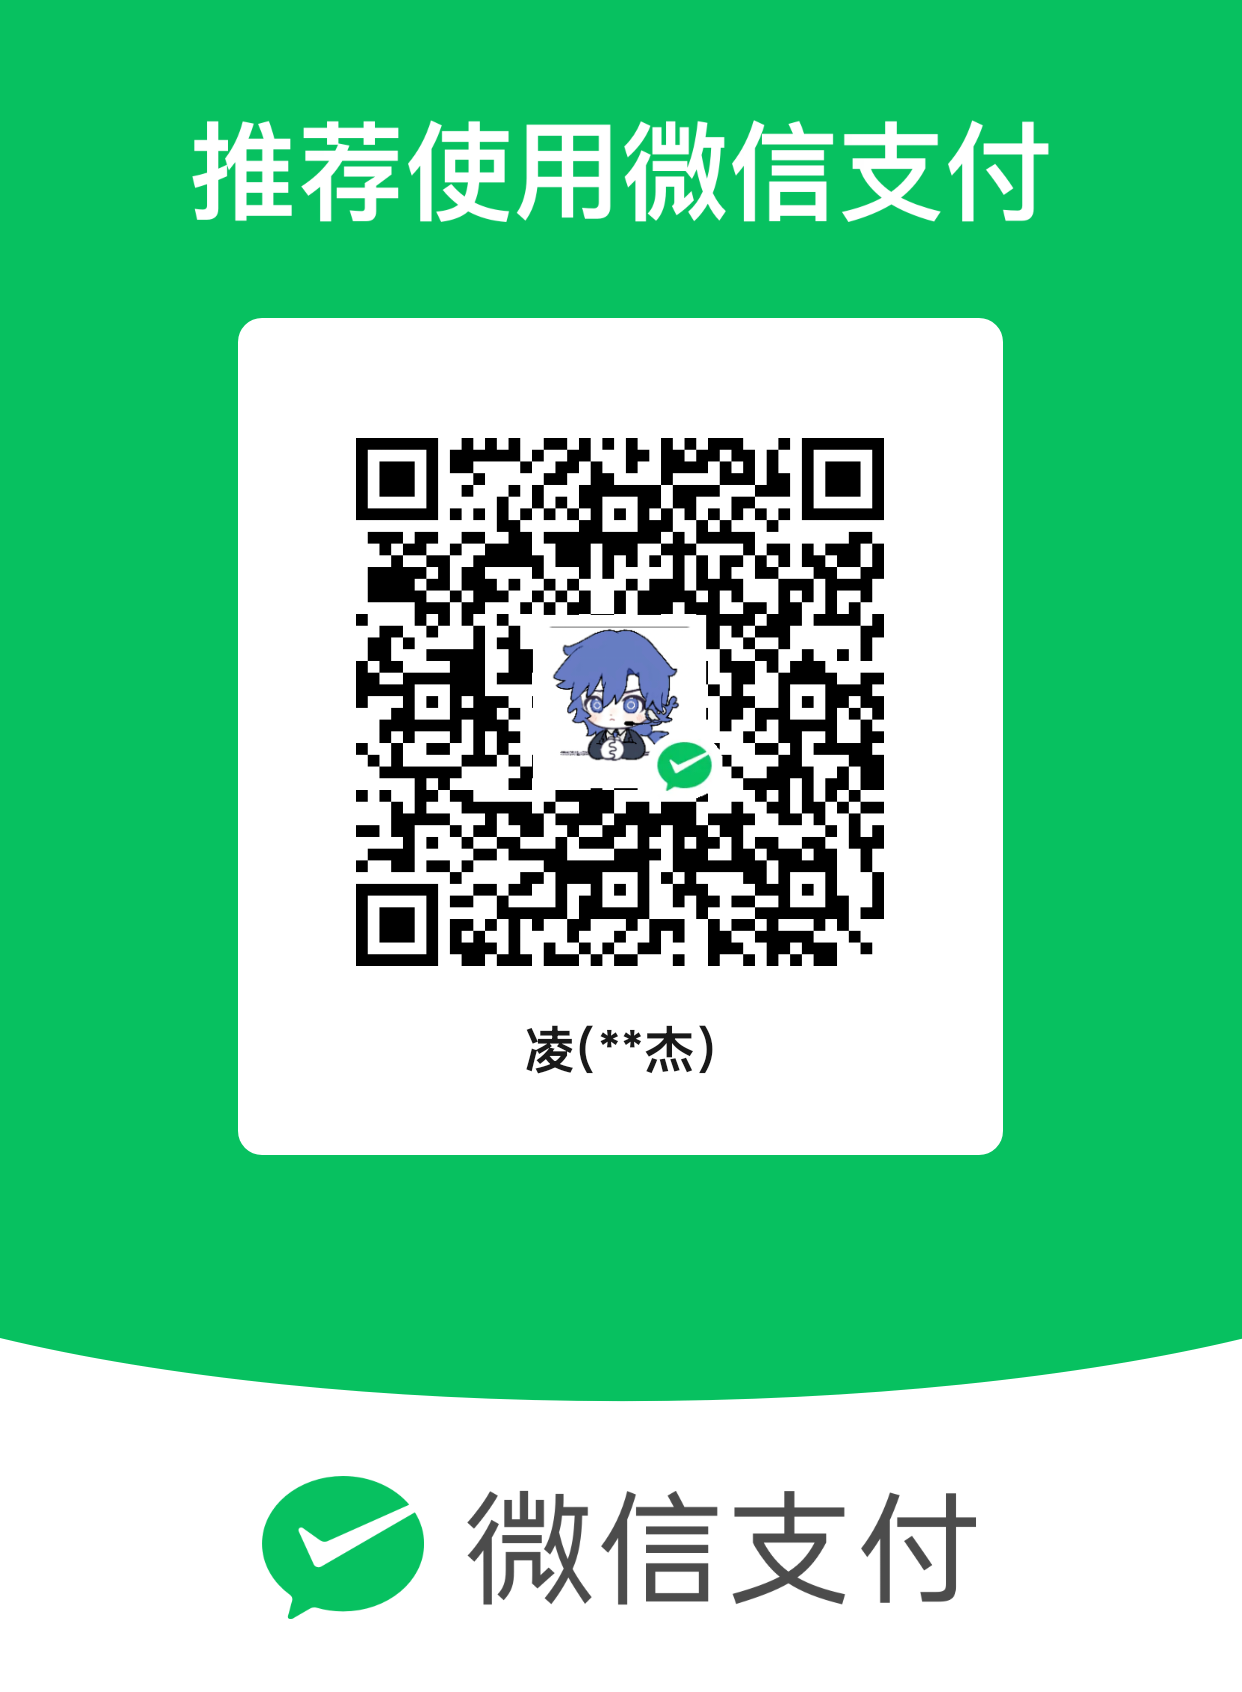
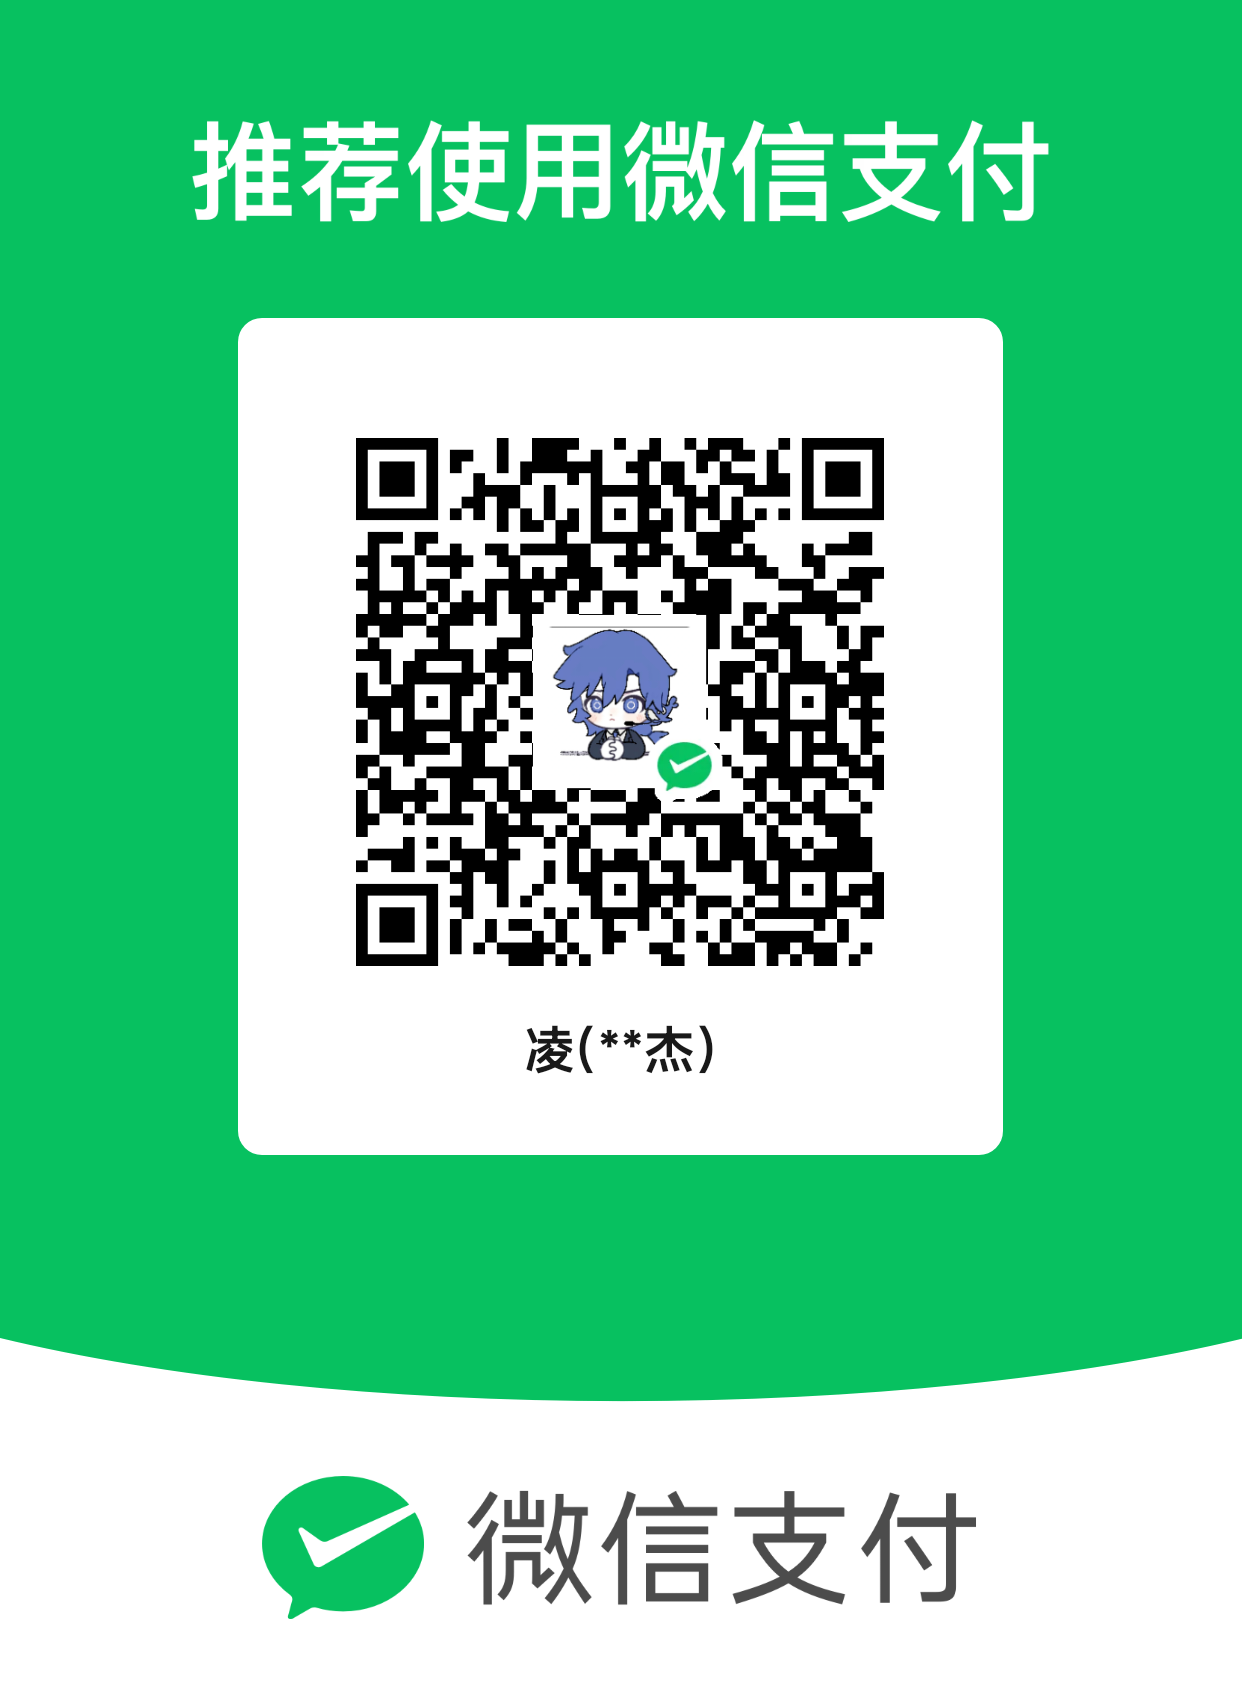
feat(about): 换新收款码 + 关于页加 QQ 群；修掉改名遗留的过期断言
1. 收款码换新（1242×1692，微信支付样式）
   软件内 src/renderer/donate.png 与落地页 site/assets/donate.png **两处同时更新**，
   已用 md5 校验一致 —— 只改一处会出现「软件里是新码、网页上是旧码」。

2. 关于页新增「遇到问题？」卡片
   QQ 群：1128273483，附一句「加群时请简单说明来意；群里不提供账号代刷」。
   末尾那句「也可以在 GitHub 仓库提 Issue」保留。

3. 修掉改名后遗留的过期断言（这批脚本还指着旧按钮文案）
   scripts/verify-ui.mjs / verify-installer.mjs / capture-app.mjs / verify-run.mjs
   里的 `开始刷课` → `开始运行`。
   不修的话 verify-ui 会一直报「首屏未进入任务页」——实际页面是好的，
   只是选择器等的是已经不存在的文案。这类「测试自己过时」的失败最容易
   被误当成产品坏了。

4. verify-ui.mjs 支持 ELECTRON_EXTRA_ARGS 透传（与 dev.mjs 对齐）
   无 GPU 的环境（CI / 沙箱）会 GPU process 反复崩 → 渲染进程起不来 →
   loadFile 报 ERR_FAILED。加参数后可正常跑：
     ELECTRON_EXTRA_ARGS="--disable-gpu --disable-software-rasterizer --no-sandbox"

实测（真实构建 + CDP 驱动界面）：
  [1] 首屏直接进入任务页 ✓
  [3] 关于页收款码数量: 1 ✓
  [4] 真实登录拉取课程: 30 门 ✓
  关于页 DOM 含 QQ 群号 ✓、可见 ✓，截图 app/ui-6-about-bottom.png

Changed region(s): [[0.2754, 0.2459, 0.7343, 0.5839]]

diff --git a/src/renderer/pages/About.tsx b/src/renderer/pages/About.tsx
@@ -154,9 +154,24 @@ export default function About() {
         description="正式发布暂未购买代码签名证书，首次运行可能提示“已保护你的电脑”。点击「更多信息 → 仍要运行」即可，下载页会附带图文说明。"
       />
 
+      <div className="cardish">
+        <b>遇到问题？</b>
+        <div className="muted" style={{ margin: '6px 0 10px' }}>
+          使用中遇到问题、或者想反馈建议，欢迎加入 QQ 群。
+        </div>
+        <Space size="middle" wrap>
+          <Tag color="blue" style={{ fontSize: 14, padding: '4px 10px' }}>
+            QQ 群：1128273483
+          </Tag>
+        </Space>
+        <div className="muted" style={{ marginTop: 10 }}>
+          加群时请简单说明来意；群里不提供账号代刷，请勿询问此类问题。
+        </div>
+      </div>
+
       <div style={{ marginTop: 14 }}>
         <Typography.Text className="muted" type="secondary">
-          反馈问题或功能建议，欢迎在 GitHub 仓库提 Issue。
+          也可以在 GitHub 仓库提 Issue。
         </Typography.Text>
       </div>
     </div>
